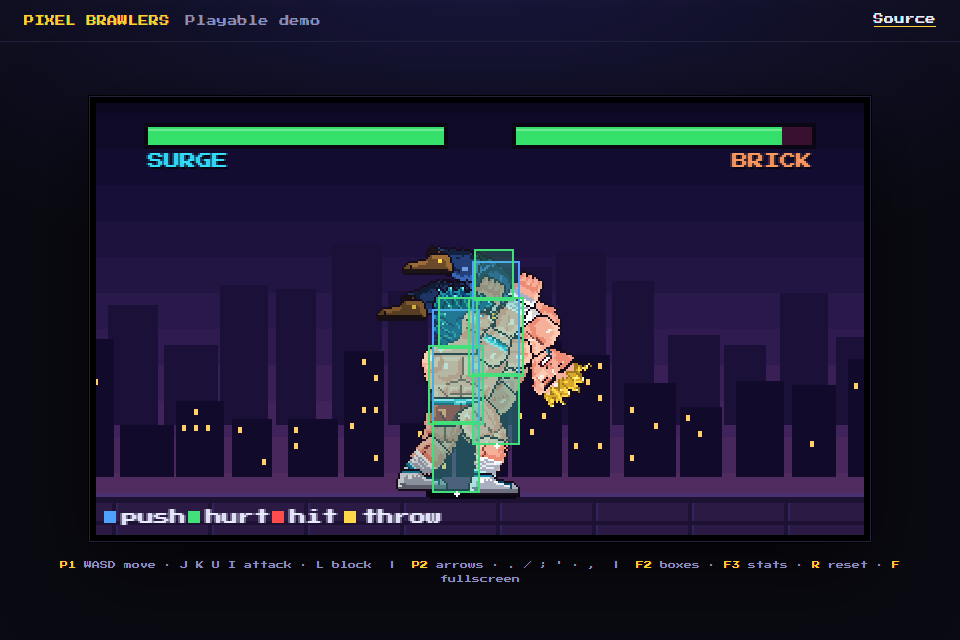
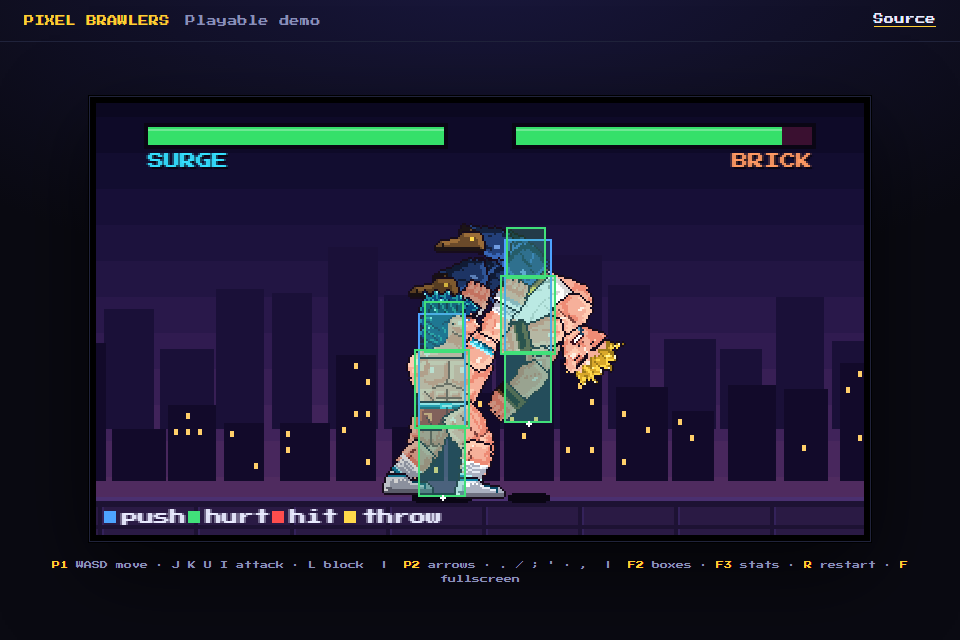
Apply rulings: throw reach 46, pair offsets, KO pacing config, intro/win anims, bake priority

diff --git a/src/engine/match.js b/src/engine/match.js
@@ -1,13 +1,14 @@
 // Match / round state machine (pure, serialisable). GAME_DESIGN 4.
 // Wraps the per-tick sim: it decides which inputs reach the fighters, when the timer runs, when a round ends and how it resets.
-import { STAGE_W } from '../config2.js';
+import { STAGE_W, KO_PACE, SLOW_EVERY } from '../config2.js';
+import { rngNext } from '../core/rng.js';
 import { createFighter } from './fighter.js';
 import { createCamera } from './camera.js';
 
 export const START_GAP = 80;                 // round start: 80px apart around the stage centre
 export const ROUND_TIME = 99, TIMER_TICKS = 60;
-export const PHASE_TICKS = { intro: 90, call: 72, fight: 30, timeup: 60, post: 90 };
-export const KO_STOP = 24, KO_SLOW = 40, SLOW_EVERY = 4;   // final-hit hitstop, then 40 ticks where fighters update every 4th tick
+export const PHASE_TICKS = { intro: 90, call: 72, fight: 30, timeup: 60 };
+export { KO_PACE, SLOW_EVERY };               // final-hit hitstop, slow-mo, post-KO hold (config2.js); the match-deciding KO is longer
 
 const NEUTRAL = { left: false, right: false, up: false, down: false, buttons: 0 };
 
@@ -29,11 +30,16 @@ export function resetRound(w) {
   w.thr = null;
 }
 
+const decided = (m) => (m.wins[0] >= m.need || m.wins[1] >= m.need) && m.wins[0] !== m.wins[1];
+const capped = (m) => m.round >= 2 * m.need + 1;           // endless draws: stop at the round cap
+
 function endRound(w, winner, reason) {
   const m = w.match;
-  m.end = { winner, reason, perfect: winner >= 0 && w.fighters[winner].dmgTaken === 0 };
   if (winner < 0) { m.wins[0]++; m.wins[1]++; } else m.wins[winner]++;
+  const final = decided(m) || capped(m);
+  m.end = { winner, reason, perfect: winner >= 0 && w.fighters[winner].dmgTaken === 0, final, pose: rngNext(w.rng) < 0.5 ? 'win_a' : 'win_b' };
 }
+const pace = (m) => KO_PACE[m.end.final ? 'final' : 'normal'];
 
 // maxHp[i]: used for the time-over comparison (HP percentage)
 function checkEnd(w, maxHp) {
@@ -41,7 +47,7 @@ function checkEnd(w, maxHp) {
   const ka = a.hp <= 0, kb = b.hp <= 0;
   if (ka || kb) {
     endRound(w, ka && kb ? -1 : ka ? 1 : 0, ka && kb ? 'double' : 'ko');
-    a.stop = b.stop = KO_STOP;
+    a.stop = b.stop = pace(m).stop;
     go(m, 'ko');
     return;
   }
@@ -54,9 +60,7 @@ function checkEnd(w, maxHp) {
 
 function nextRound(w) {
   const m = w.match, [wa, wb] = m.wins;
-  const decided = (wa >= m.need || wb >= m.need) && wa !== wb;
-  const capped = m.round >= 2 * m.need + 1;               // endless draws: stop at the round cap
-  if (decided || capped) { m.winner = wa === wb ? -1 : wa > wb ? 0 : 1; go(m, 'over'); return; }
+  if (decided(m) || capped(m)) { m.winner = wa === wb ? -1 : wa > wb ? 0 : 1; go(m, 'over'); return; }
   m.round++; m.timer = ROUND_TIME; m.tt = 0; m.end = null;
   resetRound(w);
   go(m, 'call');
@@ -67,7 +71,11 @@ export function stepMatch(w, inputs, ops, maxHp) {
   const m = w.match;
   m.t++;
   switch (m.phase) {
-    case 'intro': ops.sim(w, [NEUTRAL, NEUTRAL]); if (m.t >= PHASE_TICKS.intro) go(m, 'call'); break;
+    case 'intro':
+      ops.sim(w, [NEUTRAL, NEUTRAL]);
+      w.fighters.forEach((f) => { f.anim = 'intro'; f.at = m.t - 1; });          // round-1 intro pose sequence (88 ticks)
+      if (m.t >= PHASE_TICKS.intro) go(m, 'call');
+      break;
     case 'call': ops.sim(w, [NEUTRAL, NEUTRAL]); if (m.t >= PHASE_TICKS.call) go(m, 'fight'); break;
     case 'fight': case 'play':
       ops.sim(w, inputs);
@@ -76,13 +84,20 @@ export function stepMatch(w, inputs, ops, maxHp) {
       checkEnd(w, maxHp);
       if (m.phase === 'fight' && m.t >= PHASE_TICKS.fight) go(m, 'play');
       break;
-    case 'ko':
-      if (m.t <= KO_STOP || (m.t - KO_STOP) % SLOW_EVERY === 0) ops.sim(w, [NEUTRAL, NEUTRAL]); else ops.cam(w);
-      if (m.t >= KO_STOP + KO_SLOW) go(m, 'post');
+    case 'ko': {
+      const p = pace(m);
+      if (m.t <= p.stop || (m.t - p.stop) % SLOW_EVERY === 0) ops.sim(w, [NEUTRAL, NEUTRAL]); else ops.cam(w);
+      if (m.t >= p.stop + p.slow) go(m, 'post');
       break;
+    }
     case 'timeup': ops.sim(w, [NEUTRAL, NEUTRAL]); if (m.t >= PHASE_TICKS.timeup) go(m, 'post'); break;
-    case 'post': ops.sim(w, [NEUTRAL, NEUTRAL]); if (m.t >= PHASE_TICKS.post) nextRound(w); break;
-    case 'over': ops.sim(w, [NEUTRAL, NEUTRAL]); break;
+    case 'post': case 'over': {
+      ops.sim(w, [NEUTRAL, NEUTRAL]);
+      const win = m.end?.winner >= 0 ? w.fighters[m.end.winner] : null;          // winner plays win_a/win_b, loser stays down
+      if (win && win.state === 'idle') { win.anim = m.end.pose; win.at = m.phase === 'over' ? 999 : m.t - 1; }
+      if (m.phase === 'post' && m.t >= pace(m).post) nextRound(w);
+      break;
+    }
     default: break;
   }
 }

diff --git a/src/engine/combat.js b/src/engine/combat.js
@@ -4,6 +4,7 @@ import { STATS } from '../data/stats.js';
 import { BTN, SIMUL_WINDOW, dirX, dirY } from '../core/buffer.js';
 import { activeHits, boxesOf, boxKind, canGuard, toWorld, backToNeutral, BOXES, AIR_HIT } from './fighter.js';
 import { getMove } from './moves.js';
+import { pairOffset } from '../data/anims.js';
 
 export const BLOCK_STOP_PENALTY = 2;         // blocked hitstop = hit hitstop - 2
 export const CORNER_SHARE = 0.4;             // attacker is pushed back by this share of a cornered defender's pushback (see world.clampStage)
@@ -106,14 +107,8 @@ export const THROW_TOTAL = 24;              // attacker is free this many ticks 
 const THROWABLE = new Set(['idle', 'walk_f', 'walk_b', 'crouch', 'guard', 'dash_f', 'dash_b', 'attack', 'landlag']);   // not prejump, stun, air, lying
 
 export const throwable = (d) => d.y <= 0 && !d.inv && THROWABLE.has(d.state);
-function throwBox(a) {
-  const m = getMove(a.id, 'throw');
-  return toWorld(a, [0, 0, m.throwRange, m.hits[0].box[3]]);
-}
-const inThrowRange = (a, d) => {
-  const pb = toWorld(d, BOXES[boxKind(d)].push ?? BOXES.stand.push), tb = throwBox(a);
-  return overlap(tb, pb);
-};
+// Reach is centre to centre: the grab connects when |dx| <= throwRange (46; pushboxes touch at 24, so a visible gap of ~22px remains).
+const inThrowRange = (a, d) => Math.abs(a.x - d.x) <= getMove(a.id, 'throw').throwRange && (a.x - d.x) * a.facing <= 0;
 
 function startTech(w, ...pair) {
   w.thr = null;
@@ -161,17 +156,16 @@ export function stepThrow(w) {
     d.hp = Math.max(0, d.hp - dmg); d.dmgTaken += dmg; d.ko = d.hp <= 0;
   }
   if (k < THROW_RELEASE) {
-    const s = Math.min(1, Math.max(0, (k - 4) / 9));
-    const off = t.back ? 20 - 40 * s : 20;
-    d.x = a.x + a.facing * off;
-    d.y = 6 + Math.round(18 * Math.sin((Math.PI * k) / THROW_RELEASE));
-    d.facing = off >= 0 ? -a.facing : a.facing;
+    const p = pairOffset(k, t.back);
+    d.x = a.x + a.facing * p.x;
+    d.y = p.y;
+    d.facing = p.x >= 0 ? -a.facing : a.facing;
     d.anim = 'thrown'; d.at = k;
   } else if (k === THROW_RELEASE) {
     const away = t.back ? -a.facing : a.facing;
     d.state = 'launched'; d.st = 0; d.thrown = true; d.inv = null;
     d.vx = away * 2.0; d.vy = 3.5; d.y = Math.max(d.y, 1); d.kd = 'hard';
-    d.x = a.x + a.facing * (t.back ? -24 : 24);
+    d.x = a.x + a.facing * (t.back ? -60 : 60);
   }
   a.anim = 'throw'; a.at = Math.min(5 + k, 30);
   if (k >= THROW_TOTAL) { w.thr = null; backToNeutral(a, STATS[a.id], false); }

diff --git a/src/data/anims.js b/src/data/anims.js
@@ -53,10 +53,25 @@ Object.assign(ANIMS, {
   jHP:   air('jHP', [7, 6, 0],  [4, 14, 38, 36]),
   jLK:   air('jLK', [4, 10, 0], [2, 10, 36, 22]),
   jHK:   air('jHK', [9, 6, 0],  [2, 8, 46, 28]),
-  throw: attack('throw', [5, 2, 24], [1, 1, 3], [0, 40, 42, 30]),   // reach / grab (active) / hold / release / recover; box far edge 42 = GAME_DESIGN throw range
+  throw: attack('throw', [5, 2, 24], [1, 1, 3], [0, 40, 46, 30]),   // reach / grab (active) / hold / release / recover; box far edge 46 = throw reach, measured centre to centre
 });
 
 // Which limb group(s) carry the hit: the reach check only measures those parts (hand/foot tip).
+// Throw pair choreography: where the victim sits relative to the thrower (forward-relative px, y up) per tick of the hold. Linear between keys.
+// Pose index follows the `thrown` anim (8 ticks each): thrown_0 held in front, thrown_1 arcing over, thrown_2 on release.
+export const THROW_PAIR = { keys: [[0, 34, 28], [5, 34, 28], [9, 46, 40], [13, 60, 6]], backFrom: 4, backTo: 13 };
+export function pairOffset(k, back) {
+  const ks = THROW_PAIR.keys;
+  let i = 0;
+  while (i < ks.length - 2 && k > ks[i + 1][0]) i++;
+  const [t0, x0, y0] = ks[i], [t1, x1, y1] = ks[i + 1];
+  const u = Math.min(1, Math.max(0, (k - t0) / (t1 - t0)));
+  let x = x0 + (x1 - x0) * u;
+  const y = y0 + (y1 - y0) * u;
+  if (back) { const s = Math.min(1, Math.max(0, (k - THROW_PAIR.backFrom) / (THROW_PAIR.backTo - THROW_PAIR.backFrom))); x *= 1 - 2 * s; }
+  return { x, y };
+}
+
 const LIMBS = { LP: ['armF'], HP: ['armF'], '2LP': ['armF'], '2HP': ['armF'], jLP: ['armF'], jHP: ['armF'],
   LK: ['legF'], HK: ['legF'], '2LK': ['legF'], '2HK': ['legF'], jLK: ['legF'], jHK: ['legF'], throw: ['armF', 'armB'] };
 for (const [name, limb] of Object.entries(LIMBS)) ANIMS[name].limb = limb;

diff --git a/src/data/stats.js b/src/data/stats.js
@@ -1,6 +1,6 @@
 // Fighter stats (GAME_DESIGN 3.3 table + 2.1 constants). Pure data. Fighter art files are generated, so stats live here.
 // dash: v0 = initial px/tick, decay = per-tick multiplier (not in the spec; see TUNING_LOG 2.3).
 export const STATS = {
-  surge: { name: 'SURGE', hp: 1000, pwr: 1.0, def: 1.0, walkF: 2.1, walkB: 1.7, jump: 1.0, gravity: 0.41, dashF: { v0: 4.4, decay: 0.95 }, dashB: { v0: 3.6, decay: 0.95 }, throwRange: 42, height: 100 },
-  brick: { name: 'BRICK', hp: 1000, pwr: 1.1, def: 1.0, walkF: 1.9, walkB: 1.6, jump: 0.97, gravity: 0.41, dashF: { v0: 4.4, decay: 0.95 }, dashB: { v0: 3.6, decay: 0.95 }, throwRange: 42, height: 102 },
+  surge: { name: 'SURGE', hp: 1000, pwr: 1.0, def: 1.0, walkF: 2.1, walkB: 1.7, jump: 1.0, gravity: 0.41, dashF: { v0: 4.4, decay: 0.95 }, dashB: { v0: 3.6, decay: 0.95 }, throwRange: 46, height: 100 },
+  brick: { name: 'BRICK', hp: 1000, pwr: 1.1, def: 1.0, walkF: 1.9, walkB: 1.6, jump: 0.97, gravity: 0.41, dashF: { v0: 4.4, decay: 0.95 }, dashB: { v0: 3.6, decay: 0.95 }, throwRange: 46, height: 102 },
 };

diff --git a/src/ui/fight.js b/src/ui/fight.js
@@ -40,7 +40,9 @@ function prebake(ids) {
   const queue = [];
   const seen = new Set();
   const add = (id, names) => { const a = spriteSet(id).anims; for (const n of names) for (const fr of a[n].frames) if (!seen.has(id + fr.pose)) { seen.add(id + fr.pose); queue.push([id, fr.pose]); } };
-  for (const id of ids) add(id, LOCO);                                          // locomotion first, then everything else the fight can show
+  const normals = ['LP', 'HP', 'LK', 'HK', '2LP', '2HP', '2LK', '2HK', 'jLP', 'jHP', 'jLK', 'jHK', 'throw'];
+  const reactions = ['block_stand_in', 'block_stand_hold', 'block_crouch_in', 'block_crouch_hold', 'hit_high', 'hit_low', 'hit_body', 'hit_air', 'thrown', 'knockdown', 'lying', 'getup', 'ko'];
+  for (const names of [LOCO, normals, reactions]) for (const id of ids) add(id, names);   // priority: idle/walk/jump, normals, reactions, then the rest (intro, win...)
   for (const id of ids) add(id, Object.keys(spriteSet(id).anims));
   const stats = { total: queue.length, done: 0 };
   const slice = () => {

diff --git a/src/data/moves-template.js b/src/data/moves-template.js
@@ -39,8 +39,8 @@ export const TEMPLATE = {
   jLK: air('jLK', 1, [4, 10], hit(LIGHT, { box: [2, 10, 36, 22], dmg: 35, level: 'H', hs: 12, bs: 9, pbHit: 2, pbBlock: 2 })),
   jHK: air('jHK', 3, [9, 6],  hit(HEAVY, { box: [2, 8, 46, 28], dmg: 70, level: 'H', hs: null, bs: 14, pbHit: 4, pbBlock: 4, kd: 'soft', launch: SOFT })),
   throw: {
-    id: 'throw', anim: 'throw', state: 'stand', weight: 0, startup: 5, active: 2, recovery: 24, throwRange: 42,
-    hits: [{ box: [0, 0, 42, 80], dmg: 100, level: 'T', hs: null, bs: null, pbHit: 0, pbBlock: 0, hitstop: 12, kd: 'hard', launch: null, juggleCost: 0, meterHit: 10, meterBlock: 0 }],
+    id: 'throw', anim: 'throw', state: 'stand', weight: 0, startup: 5, active: 2, recovery: 24, throwRange: 46,
+    hits: [{ box: [0, 0, 46, 80], dmg: 100, level: 'T', hs: null, bs: null, pbHit: 0, pbBlock: 0, hitstop: 12, kd: 'hard', launch: null, juggleCost: 0, meterHit: 10, meterBlock: 0 }],
     cancels: [],
   },
 };

diff --git a/src/engine/fighter.js b/src/engine/fighter.js
@@ -296,7 +296,7 @@ function pickAnim(f) {
     case 'attack': playAt(f, getMove(f.id, f.move).anim, f.mt - 1); break;
     case 'landlag': playAt(f, 'jump_land', f.st); break;
     case 'hit': playAt(f, f.react, f.st); break;
-    case 'launched': if (f.thrown) playAt(f, 'thrown', 8 + Math.min(f.st, 7)); else playAt(f, 'hit_air', f.st); break;
+    case 'launched': if (f.thrown) playAt(f, 'thrown', 8 + Math.min(f.st, 15)); else playAt(f, 'hit_air', f.st); break;
     case 'tech': playAt(f, 'block_stand_hold', f.st); break;
     case 'lying': playAt(f, f.qr ? 'lying' : 'knockdown', f.st); break;
     case 'getup': playAt(f, 'getup', Math.min(f.st, 23)); break;

diff --git a/src/config2.js b/src/config2.js
@@ -4,6 +4,10 @@ export const H = 216;
 export const STAGE_W = 576;
 export const FLOOR_Y = 192;
 
+// Round-end pacing in ticks: final-hit hitstop, slow-mo (fighters update every SLOW_EVERY-th tick), then the post-KO hold.
+export const KO_PACE = { normal: { stop: 24, slow: 24, post: 60 }, final: { stop: 24, slow: 40, post: 90 } };
+export const SLOW_EVERY = 4;
+
 // Authoring / bake cell for fighter frames. Pivot = feet centre.
 export const CELL_W = 160;
 export const CELL_H = 128;

diff --git a/docs/TUNING_LOG.md b/docs/TUNING_LOG.md
@@ -167,3 +167,10 @@ Part sizes (WxH), all within the ART_BIBLE rig table +-3 px. Pivots are `pivots[
 - **HUD v0** (`src/ui/hud.js`): bars with the 28-tick-hold yellow lag bar, names, `need` round pips per side, centre timer (16px, blinks red at ≤10), announcer with the ART_BIBLE 9 gradient text (24px, 2px outline, 2px drop shadow, 150%→100% pop in 8 ticks). "FINAL ROUND" when both sides are one win from the match.
 - **Not done:** winner pose and intro animation (no art in the anim set, fighters stand idle), HUD restyle (6.1), round-count picker.
 - **`__debug`:** `setHP(p,n)`, `setTimer(n)`, `setMeter(p,n)`, `forceKO(p)`. URL params: `?rounds=1|3|5`, `?match=0` (bare sandbox), QA stills `?shot=hud|ko|over`.
+
+## 2.6b Orchestrator rulings applied
+- Throw reach is 46px centre to centre (`throwRange`, box far edge 46); gap 46 grabs, 47 whiffs.
+- Throw pair choreography is data (`THROW_PAIR` in `data/anims.js`): victim at +34/28 up (thrown_0), arcing over to +46/40, landing at +60 on release; back throw mirrors the x offset over ticks 4..13.
+- KO pacing is config (`KO_PACE` in `config2.js`): normal 24 hitstop / 24 slow / 60 post, match-deciding 24 / 40 / 90.
+- Round-1 intro plays the `intro` anim on both fighters; the winner plays `win_a`/`win_b` (picked from the world RNG when the round ends); the loser stays in `ko`/`lying`.
+- Sprite bake priority: idle/walk/jump, normals, reactions, rest.
